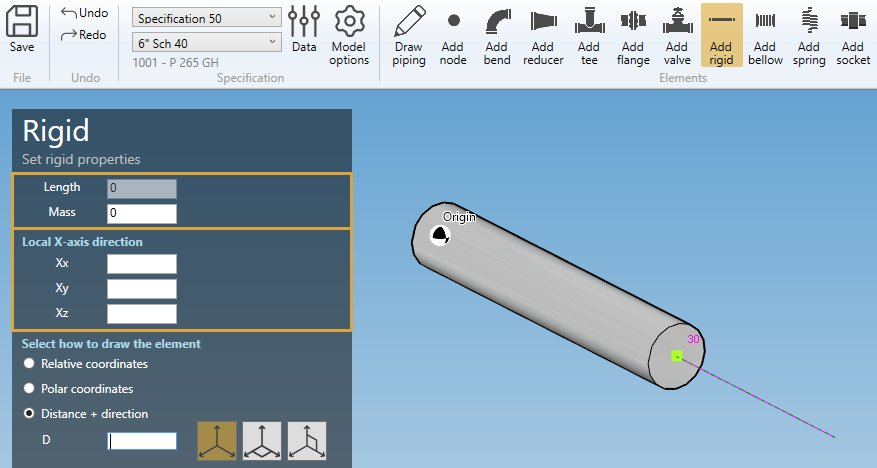
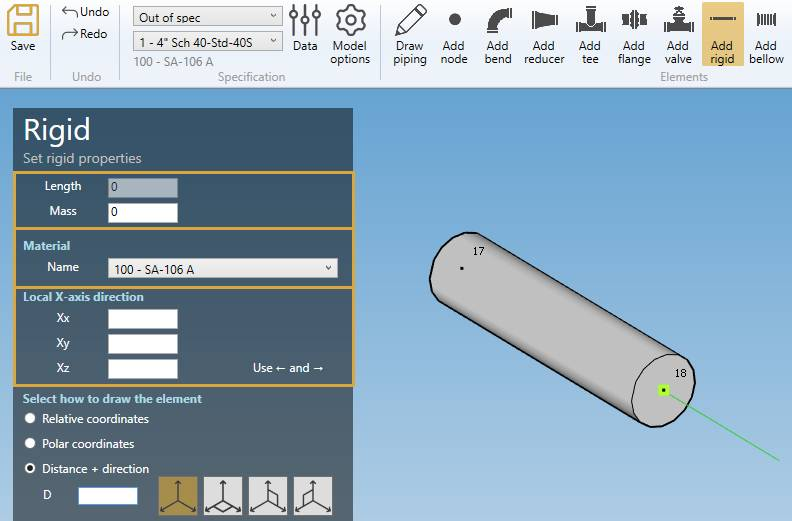
Corrections

diff --git a/Loads/Piping/StaticCases.md b/Loads/Piping/StaticCases.md
@@ -73,7 +73,7 @@ The equations to be verified are code-dependent. For example, here are the equat
 - **Secondary case** : to be checked for displacement-type cases like thermal expansion. Depending on the piping code (e.g. RCC-M Class 2), the moments may be multiplied by Ec/Eh when the **Hot modulus** is used
 - **Pseudo-static cases** : to be checked for dynamic cases that are calculated as static cases (e.g. earthquake calculated with a pseudo-static acceleration)
 - **Disable spring hangers** : for some cases like settlement and cold springing, it is common practice to readjust the spring hangers to their design parameters. This is equivalent to disabling the spring hangers
-
+- **Non linear** : if checked, non linear restraint is considered in the calculation
 
 ## 3. Applied loads
 

diff --git a/Design/Elements/Rigid.md b/Design/Elements/Rigid.md
@@ -34,6 +34,12 @@ The **selection mode** is automatically set to **POINT**. You can so directly se
 
 >The length must be defined by the **orientation tool**.
 
+**MATERIAL** :
+
+Select the material of the rigid.
+
+Click [here](https://documentation.metapiping.com/Design/Specification/Data.html#11-material-definition) for more information about the materials definition.
+
 **X-AXIS DIRECTION** :
 
 You can define the **X-axis** vector by defining Xx, Xy, Xz in global coordinates.
@@ -59,6 +65,10 @@ Click [here](https://documentation.metapiping.com/Design/Selection.html) for mor
 You can change the properties of the selected rigid (except the length).
 
 ![Image](../../Images/Rigid4.jpg)
+
+**MATERIAL** :
+
+Change the material of the rigid.
 
 **X-AXIS DIRECTION** :
 

diff --git a/Design/Elements/Spring.md b/Design/Elements/Spring.md
@@ -24,7 +24,7 @@ The **selection mode** is automatically set to **POINT**. You can so directly se
 
 ![Image](../../Images/Spring2.jpg)
 
-**SPRING PROPERTIES** (3) :
+**SPRING PROPERTIES** :
 
 | Property | Description | Unit Metric | Unit USA |
 | -------- | --- | ---- | ---- |
@@ -37,6 +37,12 @@ The **selection mode** is automatically set to **POINT**. You can so directly se
 | Krz | Rotation stiffness in Z direction | kN.m/rad | kips.ft/rad |
 
 >The length must be defined by the **orientation tool**.
+
+**MATERIAL** :
+
+Select the material of the spring.
+
+Click [here](https://documentation.metapiping.com/Design/Specification/Data.html#11-material-definition) for more information about the materials definition.
 
 **X-AXIS DIRECTION** :
 

diff --git a/Structure/Elements/Beam/index.md b/Structure/Elements/Beam/index.md
@@ -158,8 +158,12 @@ This critical moment depends on the coefficients C1 and C2 :
 
 The default local-X direction for a beam is :
 
-* (0, 1, 0) for vertical beams
-* (0, 0, 1) for non vertical beams
+| X-axis | Global vertical axis | Default |
+| -------- | ----------- | --- |
+| Vertical beams | Z | (0, 1, 0) |
+| Non vertical beams | Z | (0, 0, 1) |
+| Vertical beams | Y | (0, 0, 1) |
+| Non vertical beams | Y | (0, 1, 0) |
 
 X-axis is always the **weak** axis, Y-axis the **strong** axis and Z-axis the axis of the beam from Node1 to Node2.
 

diff --git a/Loads/Piping/TimeHistoryCases.md b/Loads/Piping/TimeHistoryCases.md
@@ -14,7 +14,7 @@ grand_parent: Loads
 
 When selecting **Time history cases**, all existing time history cases are listed in the combobox :
 
-![Image](../../Images/Load33.jpg) 
+![Image](../../Images/load33.jpg) 
 
 The cases appear with their **Case number** + **Title**.
 

diff --git a/Loads/Structure/TimeHistoryCases.md b/Loads/Structure/TimeHistoryCases.md
@@ -15,7 +15,7 @@ grand_parent: Loads
 
 When selecting **Time history cases**, all existing time history cases are listed in the combobox :
 
-![Image](../../Images/Load33.jpg) 
+![Image](../../Images/load33.jpg) 
 
 The cases appear with their **Case number** + **Title**.
 
